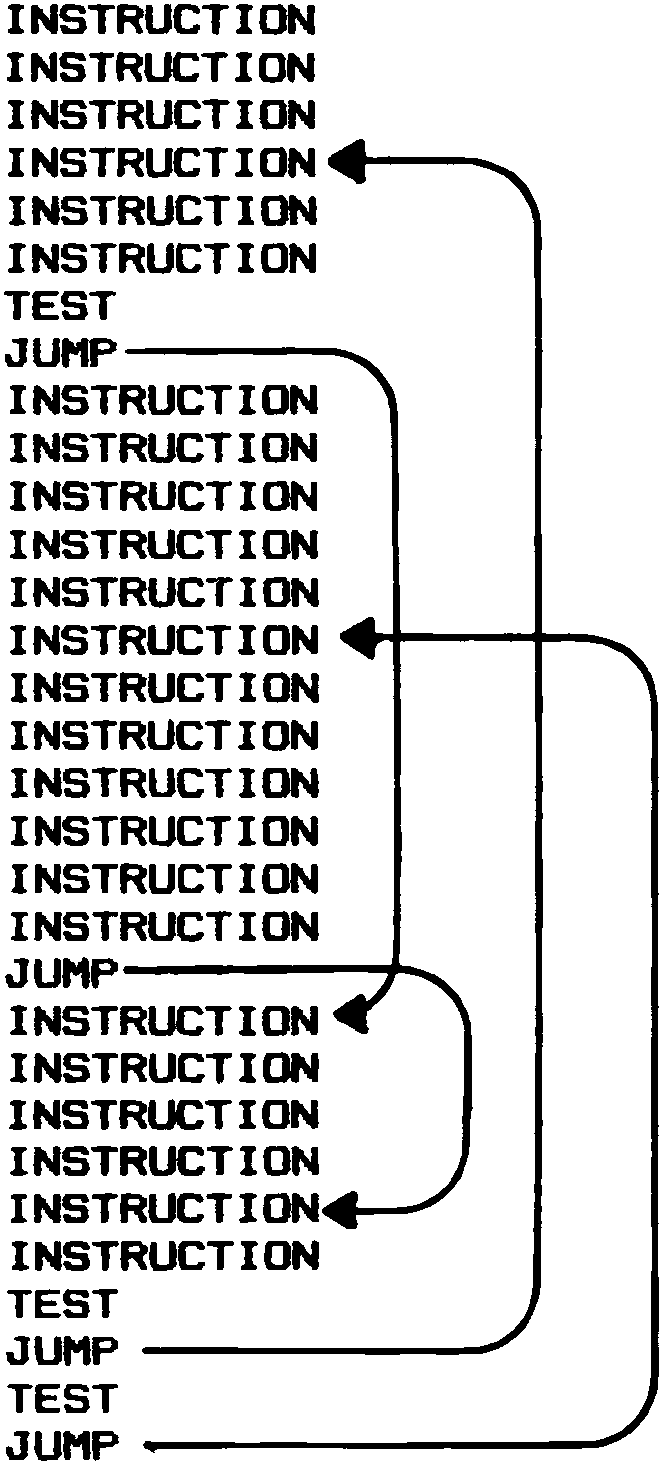
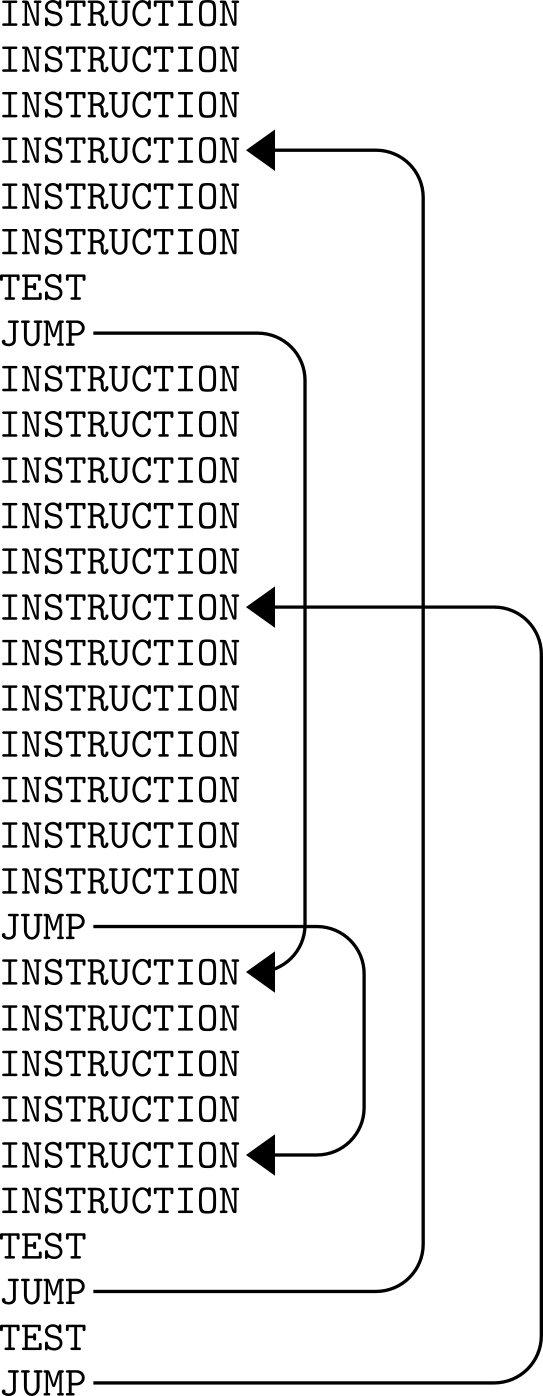
tex-fig?-? to fig?-?
rename part of tex-fig?-? (and png files) to fig?-?.  all fig?-? format.

JP:tex-fig?-?形式をfig?-?に変更し、全てをfig?-?形式に統一した。

sphinxで図表番号自動採番・参照の為に統一した。参照は :numref: で
行う。ftrst.styで引数名を :name: に与えるため形式統一の必要がある。
念の為conf.pyにnumfig = True追加。
なお、fig1-1はtex-fig1-1.pngの方がモノが良かったのでそれを上書き。

Changed region(s): [[0.0, 0.0, 1.0, 1.0]]

diff --git a/sphinx/conf.py b/sphinx/conf.py
@@ -166,5 +166,5 @@ texinfo_documents = [
      'Miscellaneous'),
 ]
 
-
-
+# sphinx v1.3 and over
+numfig = True
